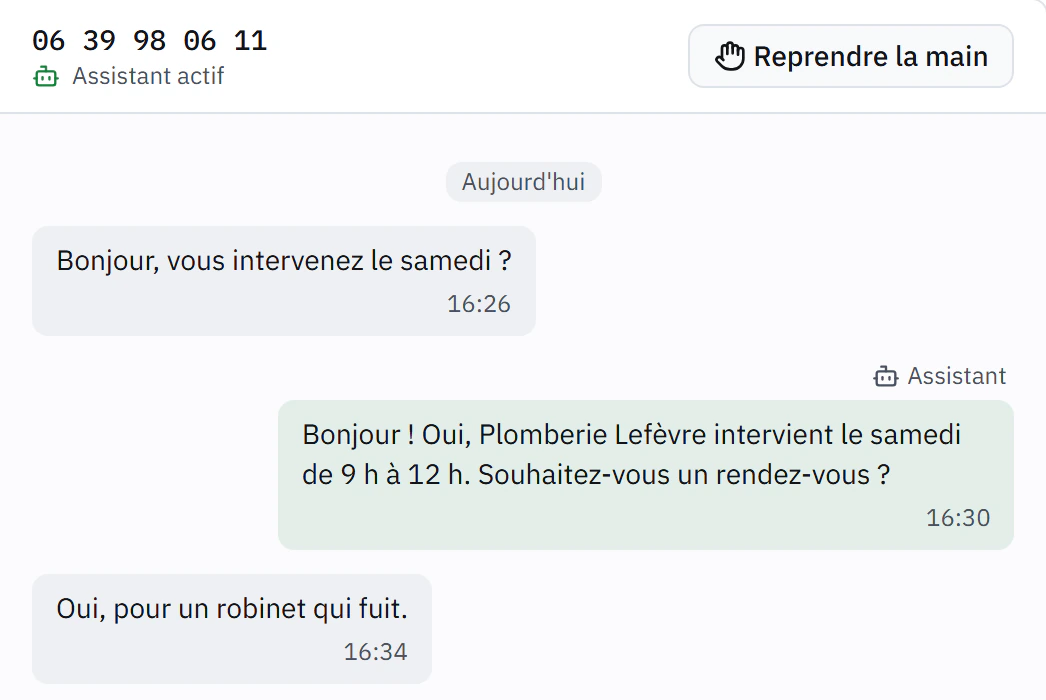
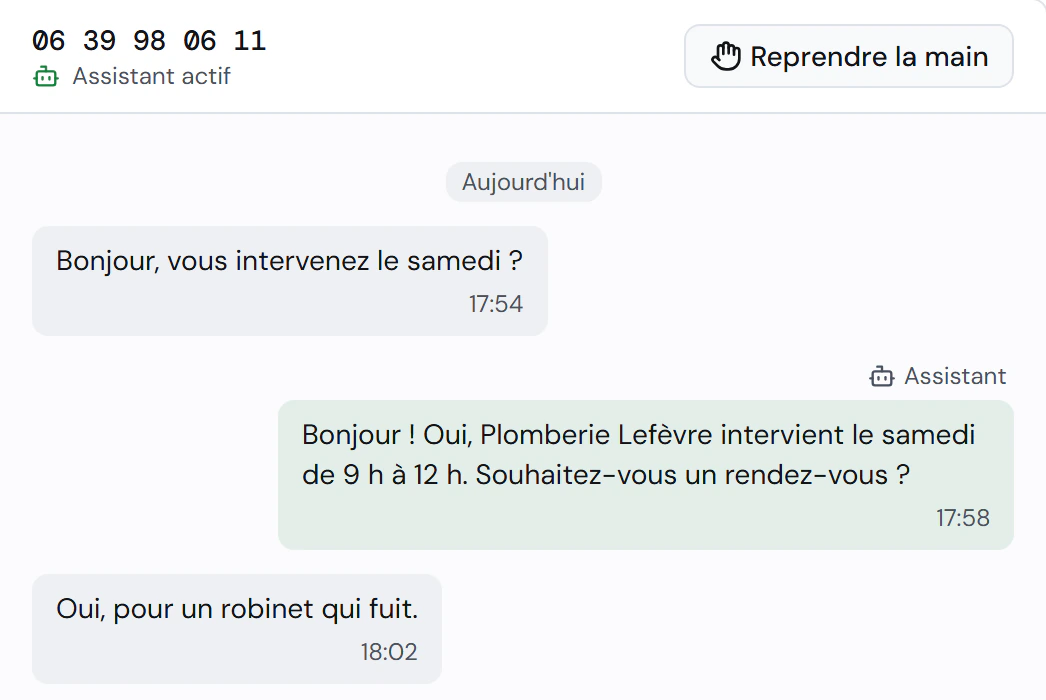
Polices : DM Sans et DM Mono, à la place d'IBM Plex (#177)
* Polices : DM Sans et DM Mono, à la place d'IBM Plex

Proche de Volubile, notre référence française la plus proche (DM Sans),
ronde et lisible pour des artisans ; on écarte Inter et Geist, les polices
des modèles de pages génériques. DM Mono garde les données (prix, horaires,
numéros) dans la même famille, comme le veut DESIGN.md.

- next/font : DM_Sans (400, 500, 600) et DM_Mono (400, 500), latin et
  latin-ext ; variables --font-dm-sans et --font-dm-mono.
- Captures de l'accueil refaites avec la nouvelle police (dimensions
  inchangées).
- DESIGN.md : section Typographie et raison du choix.

Claude-Session: https://claude.ai/code/session_0125LzNRnjENvHdTxbnwep3y

* Polices : la variable --font-sans ne se référence plus elle-même

Le thème Tailwind déclarait « --font-sans: var(--font-sans) » (de même
pour mono, serif, heading). En développement, la ligne arrivait telle
quelle dans la page : variable circulaire, donc vide, et le navigateur
affichait Times New Roman. Le build de production la supprimait, ce qui
masquait le défaut (il existait déjà avec IBM Plex).

Les valeurs vivent désormais sous --app-font-* et le thème y renvoie.

Claude-Session: https://claude.ai/code/session_0125LzNRnjENvHdTxbnwep3y

* Hero : capture à jour, chiffres de « Ce mois-ci » alignés

- StatStrip : libellés et valeurs sur deux rangées partagées (sous-grille) ;
  « Réponses envoyées ce mois-ci », sur deux lignes, n'abaisse plus son
  chiffre : les quatre valeurs sont à la même hauteur.
[…]

diff --git a/src/app/globals.css b/src/app/globals.css
@@ -44,10 +44,10 @@
   --sidebar-accent-foreground: oklch(0.1898 0.0094 255.6333);
   --sidebar-border: oklch(0.9142 0.0081 253.8565);
   --sidebar-ring: oklch(0.5273 0.1371 150.0693);
-  --font-sans: var(--font-plex-sans), ui-sans-serif, sans-serif, system-ui;
-  --font-serif: var(--font-plex-sans), ui-sans-serif, sans-serif;
-  --font-mono: var(--font-plex-mono), ui-monospace, monospace;
-  --font-heading: var(--font-plex-sans), ui-sans-serif, sans-serif;
+  --app-font-sans: var(--font-dm-sans), ui-sans-serif, sans-serif, system-ui;
+  --app-font-serif: var(--font-dm-sans), ui-sans-serif, sans-serif;
+  --app-font-mono: var(--font-dm-mono), ui-monospace, monospace;
+  --app-font-heading: var(--font-dm-sans), ui-sans-serif, sans-serif;
   --radius: 0.5rem;
   --shadow-x: 0px;
   --shadow-y: 4px;
@@ -105,10 +105,10 @@
   --sidebar-accent-foreground: oklch(0.9545 0.0046 258.3249);
   --sidebar-border: oklch(0.3032 0.0145 256.7851);
   --sidebar-ring: oklch(0.7007 0.1804 148.9872);
-  --font-sans: var(--font-plex-sans), ui-sans-serif, sans-serif, system-ui;
-  --font-serif: var(--font-plex-sans), ui-sans-serif, sans-serif;
-  --font-mono: var(--font-plex-mono), ui-monospace, monospace;
-  --font-heading: var(--font-plex-sans), ui-sans-serif, sans-serif;
+  --app-font-sans: var(--font-dm-sans), ui-sans-serif, sans-serif, system-ui;
+  --app-font-serif: var(--font-dm-sans), ui-sans-serif, sans-serif;
+  --app-font-mono: var(--font-dm-mono), ui-monospace, monospace;
+  --app-font-heading: var(--font-dm-sans), ui-sans-serif, sans-serif;
   --radius: 0.5rem;
   --shadow-x: 0px;
   --shadow-y: 10px;
@@ -166,10 +166,13 @@
   --color-sidebar-border: var(--sidebar-border);
   --color-sidebar-ring: var(--sidebar-ring);
 
-  --font-sans: var(--font-sans);
-  --font-mono: var(--font-mono);
-  --font-serif: var(--font-serif);
-  --font-heading: var(--font-heading);
+  /* Noms distincts de ceux de :root : « --font-sans: var(--font-sans) » se
+     référençait lui-même ; en développement, la variable devenait vide et le
+     navigateur affichait Times New Roman. */
+  --font-sans: var(--app-font-sans);
+  --font-mono: var(--app-font-mono);
+  --font-serif: var(--app-font-serif);
+  --font-heading: var(--app-font-heading);
 
   --radius-xs: var(--radius);
   --radius-sm: var(--radius);
@@ -218,7 +221,7 @@
   h1,
   h2,
   h3 {
-    font-family: var(--font-heading);
+    font-family: var(--app-font-heading);
   }
 }
 

diff --git a/src/components/stat-strip.tsx b/src/components/stat-strip.tsx
@@ -5,7 +5,7 @@ import { cn } from "@/lib/utils";
 export type Stat = {
   icon: LucideIcon;
   label: string;
-  /** La donnée elle-même, en Plex Mono (DESIGN.md, Typographie). */
+  /** La donnée elle-même, en DM Mono (DESIGN.md, Typographie). */
   value: string;
   /** false pour une valeur écrite en toutes lettres (une date), en texte courant. */
   mono?: boolean;
@@ -27,14 +27,16 @@ export function StatStrip({ title, stats }: { title?: string; stats: Stat[] }) {
         </CardHeader>
       )}
       <CardContent>
-        <dl className="grid grid-cols-1 divide-y divide-border sm:grid-flow-col sm:auto-cols-fr sm:divide-x sm:divide-y-0">
+        {/* Deux rangées partagées (sous-grille) : un libellé sur deux lignes
+            n'abaisse plus sa valeur, tous les chiffres restent alignés. */}
+        <dl className="grid grid-cols-1 divide-y divide-border sm:grid-flow-col sm:auto-cols-fr sm:grid-rows-[auto_auto] sm:divide-x sm:divide-y-0">
           {stats.map((stat) => (
             <div
               key={stat.label}
-              className="py-3 first:pt-0 last:pb-0 sm:px-5 sm:py-0 sm:first:pl-0 sm:last:pr-0"
+              className="py-3 first:pt-0 last:pb-0 sm:row-span-2 sm:grid sm:grid-rows-subgrid sm:px-5 sm:py-0 sm:first:pl-0 sm:last:pr-0"
             >
-              <dt className="flex items-center gap-1.5 text-sm text-muted-foreground">
-                <stat.icon className="size-4 shrink-0" aria-hidden="true" />
+              <dt className="flex items-start gap-1.5 text-sm text-muted-foreground">
+                <stat.icon className="mt-0.5 size-4 shrink-0" aria-hidden="true" />
                 {stat.label}
               </dt>
               <dd className="mt-2">

diff --git a/src/app/[locale]/layout.tsx b/src/app/[locale]/layout.tsx
@@ -1,5 +1,5 @@
 import type { Metadata } from "next";
-import { IBM_Plex_Mono, IBM_Plex_Sans } from "next/font/google";
+import { DM_Mono, DM_Sans } from "next/font/google";
 import { ThemeProvider } from "@/components/theme-provider";
 import { NextIntlClientProvider } from "next-intl";
 import { locale as rootLocale } from "next/root-params";
@@ -14,15 +14,17 @@ import { siteOpenGraph } from "@/lib/site-metadata";
 import { Analytics } from "@vercel/analytics/next";
 import { SpeedInsights } from "@vercel/speed-insights/next";
 
-const plexSans = IBM_Plex_Sans({
-  variable: "--font-plex-sans",
-  subsets: ["latin"],
+// DM Sans pour le texte et les titres, DM Mono (même famille) pour les
+// données : prix, horaires, numéros (DESIGN.md, Typographie).
+const dmSans = DM_Sans({
+  variable: "--font-dm-sans",
+  subsets: ["latin", "latin-ext"],
   weight: ["400", "500", "600"],
 });
 
-const plexMono = IBM_Plex_Mono({
-  variable: "--font-plex-mono",
-  subsets: ["latin"],
+const dmMono = DM_Mono({
+  variable: "--font-dm-mono",
+  subsets: ["latin", "latin-ext"],
   weight: ["400", "500"],
 });
 
@@ -58,8 +60,8 @@ export default async function RootLayout({
       className={cn(
         "h-full",
         "antialiased",
-        plexSans.variable,
-        plexMono.variable,
+        dmSans.variable,
+        dmMono.variable,
         "font-sans",
       )}
     >

diff --git a/src/lib/catalog.ts b/src/lib/catalog.ts
@@ -145,7 +145,7 @@ export function formatPrice(monthlyPriceCents: number | null): string {
   return monthlyPriceCents === null ? "—" : `${formatCents(monthlyPriceCents)}/mois`;
 }
 
-// Le montant sans le symbole « € » : pour afficher le chiffre en Plex Mono et
+// Le montant sans le symbole « € » : pour afficher le chiffre en DM Mono et
 // l'unité en texte courant, sans l'espace insécable élargi par la chasse fixe.
 export function formatEuroAmount(cents: number): string {
   return formatCents(cents).replace(/\s€$/, "");

diff --git a/src/components/figure.tsx b/src/components/figure.tsx
@@ -10,7 +10,7 @@ export function splitFigure(text: string): [figure: string, unit: string] | null
 }
 
 // Une donnée déjà formatée (« 150 min », « 25 € TTC ») : le nombre en
-// Plex Mono, l'unité en texte courant. En chasse fixe, les espaces insécables
+// DM Mono, l'unité en texte courant. En chasse fixe, les espaces insécables
 // de l'unité s'élargiraient autant qu'un chiffre.
 export function Figure({
   text,

diff --git a/src/components/monthly-price.tsx b/src/components/monthly-price.tsx
@@ -3,7 +3,7 @@ import { usePriceFormatter } from "@/hooks/use-price-formatter";
 import { formatEuroAmount } from "@/lib/catalog";
 import { cn } from "@/lib/utils";
 
-// Prix mensuel d'une solution : le montant en Plex Mono, l'unité en texte
+// Prix mensuel d'une solution : le montant en DM Mono, l'unité en texte
 // courant, le hors taxes rappelé dessous (DESIGN.md, Typographie).
 export function MonthlyPrice({
   cents,

diff --git a/DESIGN.md b/DESIGN.md
@@ -48,9 +48,13 @@ Nulle part ailleurs.
 ## Typographie
 
 Deux polices de la même famille, chargées par `next/font` :
-- **IBM Plex Sans** (400, 500, 600) pour les titres et le texte ;
-- **IBM Plex Mono** (400, 500), classe `font-mono`, seulement pour les données :
+- **DM Sans** (400, 500, 600) pour les titres et le texte ;
+- **DM Mono** (400, 500), classe `font-mono`, seulement pour les données :
   prix, durées, horaires, numéros de téléphone, codes, numéros d'étape.
+
+DM Sans est celle de Volubile, notre référence la plus proche : ronde, lisible
+et chaleureuse pour des artisans. On écarte les polices des modèles de pages
+génériques (Inter, Geist), qui font « site généré ».
 
 Les chiffres de données sont tabulaires (`tabular-nums`). Pas de petites
 étiquettes en capitales espacées.
@@ -63,7 +67,7 @@ Les chiffres de données sont tabulaires (`tabular-nums`). Pas de petites
 | Titre de section (`h2`) | 30 px, 36 px dès `sm` | 600 |
 | Sous-titre (`h3`) | 18 à 20 px | 600 |
 | Texte courant | 16 px, 18 px pour les chapeaux | 400 |
-| Donnée (Plex Mono) | taille du texte voisin | 400 ou 500 |
+| Donnée (DM Mono) | taille du texte voisin | 400 ou 500 |
 | Légende, aide | 14 px | 400 |
 | Mention légale, note | 13 px | 400 |
 
@@ -166,7 +170,7 @@ reste affichée jusqu'à ce qu'on la ferme.
 - Une capture n'est jamais agrandie au-delà de sa taille réelle ; elle est
   servie en qualité 90 (le texte fin reste net).
 - Les faits commerciaux (prix, engagement, garantie) se présentent en fiche
-  technique : libellé à gauche, valeur en Plex Mono à droite, filets entre les
+  technique : libellé à gauche, valeur en DM Mono à droite, filets entre les
   lignes.
 - Les maquettes dessinées (illustrations des pages solutions) restent pour ce
   qu'une capture ne peut pas montrer (un appel en cours, un message reçu).
